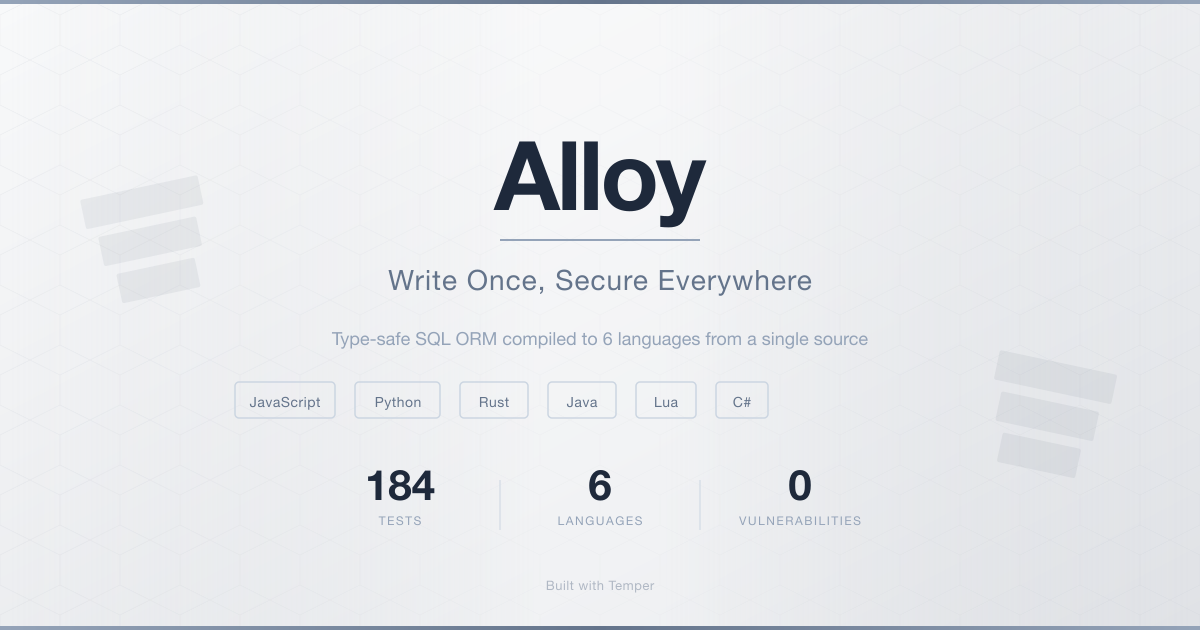
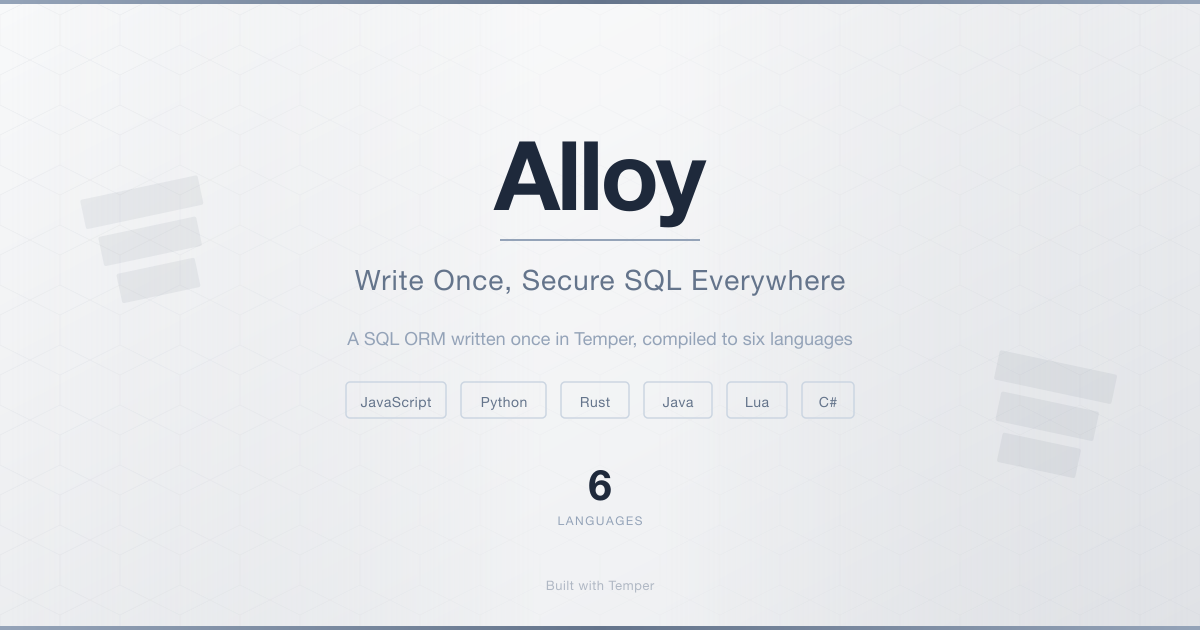
Center language pills, simplify OG image and meta tags
- Center the language pill row in OG image
- Update tagline to "Write Once, Secure SQL Everywhere"
- Remove test count and vulnerability count from stats
- Soften description copy in meta tags

diff --git a/docs/index.html b/docs/index.html
@@ -4,12 +4,12 @@
 <meta charset="UTF-8">
 <meta name="viewport" content="width=device-width, initial-scale=1.0">
 <title>Alloy — Write Once, Secure Everywhere</title>
-<meta name="description" content="A type-safe SQL ORM forged in Temper. One source, compiled to JavaScript, Python, Rust, Java, Lua, and C# — with zero injection vulnerabilities across all six.">
+<meta name="description" content="A SQL ORM written once in Temper, compiled to JavaScript, Python, Rust, Java, Lua, and C#. Type-safe SQL generation from a single source.">
 
 <!-- Open Graph -->
 <meta property="og:type" content="website">
-<meta property="og:title" content="Alloy — Write Once, Secure Everywhere">
-<meta property="og:description" content="A type-safe SQL ORM forged in Temper. One source, compiled to 6 languages, zero injection vulnerabilities. 184 tests, 5 defense layers, every backend secured by the same type system.">
+<meta property="og:title" content="Alloy — Write Once, Secure SQL Everywhere">
+<meta property="og:description" content="A SQL ORM written once in Temper, compiled to six languages. Type-safe SQL generation from a single source.">
 <meta property="og:image" content="https://notactuallytreyanastasio.github.io/alloy/og-image.png">
 <meta property="og:image:width" content="1200">
 <meta property="og:image:height" content="630">
@@ -17,8 +17,8 @@
 
 <!-- Twitter Card -->
 <meta name="twitter:card" content="summary_large_image">
-<meta name="twitter:title" content="Alloy — Write Once, Secure Everywhere">
-<meta name="twitter:description" content="A type-safe SQL ORM forged in Temper. One source, compiled to 6 languages, zero injection vulnerabilities.">
+<meta name="twitter:title" content="Alloy — Write Once, Secure SQL Everywhere">
+<meta name="twitter:description" content="A SQL ORM written once in Temper, compiled to six languages. Type-safe SQL generation from a single source.">
 <meta name="twitter:image" content="https://notactuallytreyanastasio.github.io/alloy/og-image.png">
 
 <style>
